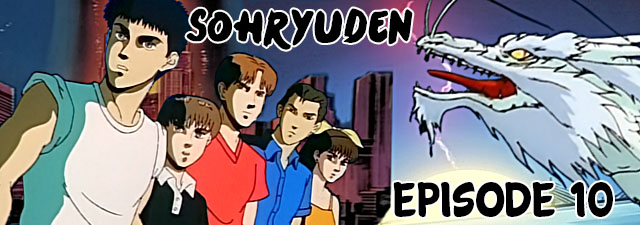
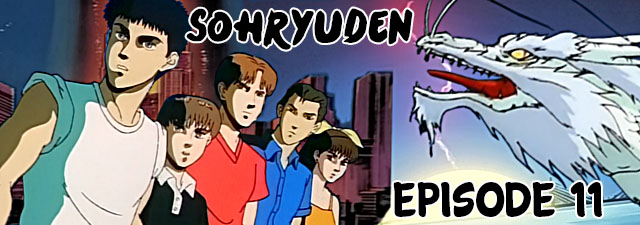
new release

Changed region(s): [[0.9062, 0.8089, 0.9688, 0.9644]]

diff --git a/2018-09-12.html b/2018-09-12.html
@@ -1,0 +1,106 @@
+<!DOCTYPE html>
+<html lang="fr-FR">
+	<head>
+		<title>Sohryuden 11 vostfr | Nobluesky Fansub</title>
+		<meta charset="utf-8" />
+		<meta name=viewport content="width=980">
+		<link rel="Shortcut Icon" type="image/x-icon" href="favicon.ico" />
+		<link href="fonts/fonts.css" rel="stylesheet" type="text/css" />
+		<link href="style.css" rel="stylesheet" type="text/css" media="screen" />
+		<link rel="stylesheet" href="menu.css" type="text/css" />
+		<script src="jquery.js" type="text/javascript"></script>
+		<script src="background-script.js" type="text/javascript"></script>
+	</head>
+<body>
+<div class="banner">
+	<a title="Nobluesky Fansub" href="index.html"> <img class="banner" alt="Nobluesky Fansub" title="Nobluesky Fansub" src="images/banner.png"/> </a>
+</div>
+<!-- end banner -->
+<div id="menu-wrapper">
+	<div id="menu">
+		<script type="text/javascript">
+		$( '#menu' ).load( 'menu.html' );
+		</script>
+		<noscript>Activez javascript pour voir le menu!</noscript>
+	</div>
+</div>
+<!-- end #menu -->
+<div id="page-wrapper">
+<div id="sidebar-wrapper">
+	<div id="sidebar">
+		<script type="text/javascript">
+		$( '#sidebar' ).load( 'sidebar.html' );
+		</script>
+	</div>
+	<!-- end #sidebar -->
+</div>
+	<div id="article">
+		<div id="content">
+			<div class="post">
+				<h1 class="title">Sohryuden 11 vostfr</h1>
+				<p class="meta"><span class="date">12 Septembre 2018</span><span class="posted">Posté par <a href="about.html#nobluesky">Nobluesky</a></span></p>
+				<div style="clear: both;">&nbsp;</div>
+				<div class="entry">
+					<img class="post-images" src="images/2018/news3.jpg" alt="" />
+					<p>Bien le bonjour,</p>
+					<p>après quelques disgressions sous-titresques sur Lupin III, me revoici enfin !</p>
+					<p>Avec un peu de chance, cette année 2018 devrait voir la fin de la série, d'ici là, tâchez de garder vos doigts intacts, à défaut de vos ongles xD Je vous rassure, j'ai renouvelé le nom de domaine du site pour 2019, vous ne vous débarasserez pas de moi si facilement !</p>
+					<p>Dans tous les cas, l'histoire avance enfin, et fait même dans les grandes manoeuvres. Le destin des frères prend un tournant radical, toujours aussi militarisé, avec des ennemis qui tombent comme à Gravelotte. On en apprend aussi davantage sur leur passé de Roi-Dragons.</p>
+					<p>Inutile de vous rappeler que le Japon était à l'époque de l'animé la 1re puissance économique mondiale.</p>
+					<p>Quelques notes sur les avions aperçus ou mentionnés dans l'épisode (oui, j'aime bien les avions, même si l'animé n'est pas des plus exacts sur le dessin). Les chasseurs qui attaquent le Dynasty sont sans doute des F-14 Tomcat, on mentionne aussi le Phantom II, et le C-130 Hercules, transporteur militaire qui sera utilisé dans l'épisode final. Et j'ai omis qu'à l'épisode 6, les avions qui attaquent Tsuzuku sous sa forme de dragon sur le siège du gouvernement sont des Douglas AV-8B Harrier II (connus sous le nom de "Harrier"), un des premiers chasseurs américains possédant des capacités de vol vertical et de sur-place.</p>
+					<p>Sur ce, je vous souhaite un excellent visionnage, et à la prochaine pour la conclusion tant attendue. Merci de votre fidélité !</p>
+					<h3>Téléchargements et streaming</h3>
+					<p class="links dl"><a href="https://ddl.nobluesub.com/sohryuden.html" class="button-dl">Dédié</a></p>&nbsp; | &nbsp;
+					<p class="links dl"><a href="http://jheberg.net/captcha/nobluesub-sohryuden-11-640x480-x264/" class="button-dl">Jheberg</a></p>&nbsp; | &nbsp;
+					<p class="links dl"><a href="https://rutube.ru/video/b921c9304b9f7dcecb46bdc1c8c45150/" class="button-dl">Rutube</a></p>&nbsp; | &nbsp;
+					<p class="links dl"><a href="https://mega.nz/#!rdVnwYiT!Iogtsnk8R7oeHuuC4VwAsWGTuP36Qf5ZPmG69pwzqgg" class="button-dl">Mega</a></p>
+					<h3>Commentaires</h3>
+					<div id="disqus_thread"></div>
+					<script type="text/javascript">
+						/* * * CONFIGURATION VARIABLES: EDIT BEFORE PASTING INTO YOUR WEBPAGE * * */
+						var disqus_shortname = 'noblueskyfansub'; // required: replace example with your forum shortname
+
+						/* * * DON'T EDIT BELOW THIS LINE * * */
+						(function() {
+							var dsq = document.createElement('script'); dsq.type = 'text/javascript'; dsq.async = true;
+							dsq.src = '//' + disqus_shortname + '.disqus.com/embed.js';
+							(document.getElementsByTagName('head')[0] || document.getElementsByTagName('body')[0]).appendChild(dsq);
+						})();
+					</script>
+					<noscript>Activez javascript pour voir les commentaires.</noscript>
+					<a href="http://disqus.com" class="dsq-brlink">commentaires propulsés par <span class="logo-disqus">Disqus</span></a>
+				</div>
+			</div>
+			<div style="clear: both;">&nbsp;</div>
+		</div>
+		<!-- end #content -->
+		<div style="clear: both;">&nbsp;</div>
+	</div>
+</div>
+<!-- end #page -->
+<script type="text/javascript">
+$(window).scroll(function() {
+    if ($(this).scrollTop() < 1000) {
+        $("#footer").hide();
+    }
+    else {
+        $("#footer").show();
+    }
+});
+$(window).scroll(function() {
+  if ($(this).scrollTop() < 1000) {
+    $("footer").slideUp();
+      }
+  else {
+    $("footer").slideDown();
+      }
+});		
+</script>
+<div id="footer">
+	<script type="text/javascript">
+	$( '#footer' ).load( 'footer.html' );
+	</script>
+</div>
+<!-- end #footer -->
+</body>
+</html>

diff --git a/index.html b/index.html
@@ -35,7 +35,7 @@
 <div id="page-wrapper">
 	<div class="slider-wrapper theme-default">
 		<div id="slider" class="nivoSlider">
-			<a href="2018-05-26.html"><img src="images/img01.jpg" alt="" /></a><a href="2017-10-02.html"><img src="images/img02.jpg" alt="" /></a>
+			<a href="2018-09-12.html"><img src="images/img01.jpg" alt="" /></a><a href="2017-10-02.html"><img src="images/img02.jpg" alt="" /></a>
 		</div>
 	</div>
 <script type="text/javascript">
@@ -150,11 +150,11 @@
 			<script type="text/javascript">
 			$(".post").each(function() {
 			$(this).html($(this).html()
-			.replace(/#urlpost1/g, '2018-05-26.html')
-			.replace(/#urlpost2/g, '2018-02-17.html')
-			.replace(/#urlpost3/g, '2017-12-25.html')
-			.replace(/#urlpost4/g, '2017-12-20.html')
-			.replace(/#urlpost5/g, '2017-11-10.html'));
+			.replace(/#urlpost1/g, '2018-09-12.html')
+			.replace(/#urlpost2/g, '2018-05-26.html')
+			.replace(/#urlpost3/g, '2018-02-17.html')
+			.replace(/#urlpost4/g, '2017-12-25.html')
+			.replace(/#urlpost5/g, '2017-12-20.html'));
 			});
 			</script>
 			<div id="button-page-wrapper">

diff --git a/sohryuden.html b/sohryuden.html
@@ -101,6 +101,11 @@
 					<p class="links dl"><a href="http://jheberg.net/captcha/nobluesub-sohryuden-10-640x480-x264/" class="button-dl">Jheberg</a></p>&nbsp; | &nbsp;
 					<p class="links dl"><a href="https://rutube.ru/video/88fa65d9a226b35bf54714d69d4650b8/" class="button-dl">Rutube</a></p>&nbsp; | &nbsp;
 					<p class="links dl"><a href="https://mega.nz/#!zRdBiIBb!7cGao7EWsgnLNUGBLitsV6YAJcqjXash3iz9WZi60Qc" class="button-dl">Mega</a></p>
+					<br>
+					Episode 11 :
+					<p class="links dl"><a href="http://jheberg.net/captcha/nobluesub-sohryuden-11-640x480-x264/" class="button-dl">Jheberg</a></p>&nbsp; | &nbsp;
+					<p class="links dl"><a href="https://rutube.ru/video/b921c9304b9f7dcecb46bdc1c8c45150/" class="button-dl">Rutube</a></p>&nbsp; | &nbsp;
+					<p class="links dl"><a href="https://mega.nz/#!rdVnwYiT!Iogtsnk8R7oeHuuC4VwAsWGTuP36Qf5ZPmG69pwzqgg" class="button-dl">Mega</a></p>
 				</div>
 			</div>
 			<div style="clear: both;">&nbsp;</div>

diff --git a/page2.html b/page2.html
@@ -138,11 +138,11 @@
 			<script type="text/javascript">
 			$(".post").each(function() {
 			$(this).html($(this).html()
-			.replace(/#urlpost6/g, '2017-10-02.html')
-			.replace(/#urlpost7/g, '2017-09-19.html')
-			.replace(/#urlpost8/g, '2017-09-02.html')
-			.replace(/#urlpost9/g, '2017-08-28.html')
-			.replace(/#urlpost10/g, '2017-08-23.html'));
+			.replace(/#urlpost6/g, '2017-11-10.html')
+			.replace(/#urlpost7/g, '2017-10-02.html')
+			.replace(/#urlpost8/g, '2017-09-19.html')
+			.replace(/#urlpost9/g, '2017-09-02.html')
+			.replace(/#urlpost10/g, '2017-08-28.html'));
 			});
 			</script>
 			<div id="button-page-wrapper">

diff --git a/archives.html b/archives.html
@@ -47,6 +47,7 @@
 					<div>
 					<!-- here comes spoiler content -->
 					<div style="clear: both;">&nbsp;</div>
+					<p><a href="2017-08-23.html" target="_blank" >chargement en cours...</a></p>
 					<p><a href="2017-08-18.html" target="_blank" >chargement en cours...</a></p>
 					<p><a href="2017-08-11.html" target="_blank" >chargement en cours...</a></p>
 					<p><a href="2017-08-06.html" target="_blank" >chargement en cours...</a></p>

diff --git a/sidebar.html b/sidebar.html
@@ -29,9 +29,9 @@
 		<li>
 			<h2>Avancements</h2>
 			<ul id="avancements" style="list-style: none!important;">
-				<li>Sohryuden 11 : 75%
+				<li>Sohryuden 11 : 100%
 					<div class="progress-bar blue stripes" title="Progression" >
-					<span style="width: 75%"></span>
+					<span style="width: 100%"></span>
 					</div>
 				</li>
 			</ul>
